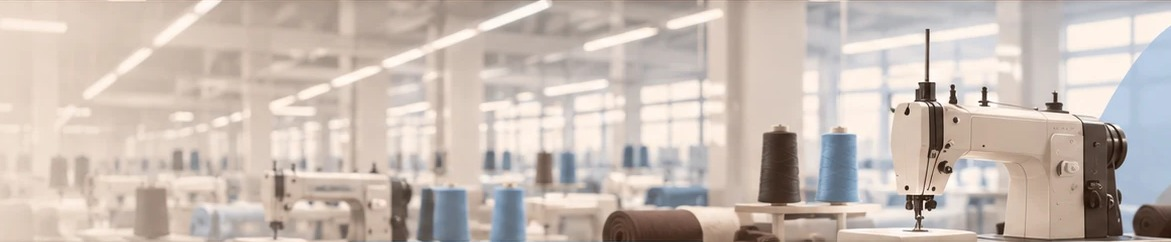
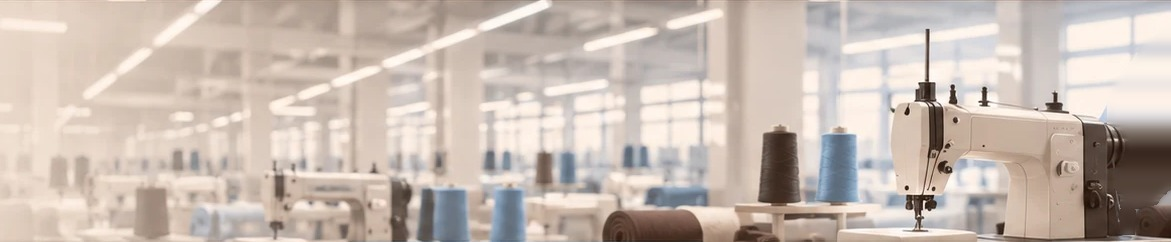
Remove the blue arc and wave from the factory look

Changed region(s): [[0.9223, 0.1157, 1.0, 0.9835]]

diff --git a/apps/web/app/factory.css b/apps/web/app/factory.css
@@ -8,7 +8,7 @@
       the language button on the right),
     - a bright, modern garment factory photo behind the greeting (public/factory-hero.jpg),
       brown cloth with two thread spools in the bottom-left corner (factory-cloth.png) and a
-      baby-blue wave along the bottom edge (factory-wave.png),
+      (the baby-blue wave of the draft was removed on request),
     - four count boxes (brown, cream, baby blue, cream) with a big faint icon each,
     - a cream, see-through "Machine map" card with seats, and a "Your selection" card.
   Colours (the three of the draft, plus a slightly darker shade of each):
@@ -226,18 +226,6 @@ body:has(.topbar)::before {
   to {
     opacity: 0;
   }
-}
-/* The baby-blue wave along the bottom edge of the screen (behind the cards). */
-.shell::after {
-  content: '';
-  position: fixed;
-  right: 0;
-  bottom: 0;
-  width: min(711px, 55vw);
-  height: 53px;
-  background: url('/factory-wave.png') right bottom / 100% 100% no-repeat;
-  pointer-events: none;
-  z-index: 0;
 }
 .shell-open::before {
   display: none;
@@ -934,8 +922,7 @@ html[lang='bn'] .map-desk {
   .map-row-letter {
     width: 20px;
   }
-  .shell::before,
-  .shell::after {
+  .shell::before {
     display: none;
   }
 }

diff --git a/apps/web/STATUS.md b/apps/web/STATUS.md
@@ -23,7 +23,7 @@ This is the "where are we?" page for the website. The root `CLAUDE.md` loads it 
 
 ## In progress
 
-- FACTORY LOOK (branch `features/web-factory-look`, 2026-11-13, checks pass, looked at in a browser on fake data at 1711 x 919, desktop, phone and Bangla; NOT committed; real backend not tried): the whole manager and owner frame was rebuilt as a copy of the new draft picture. It REPLACES the maroon / sky-blue look below. Colours: brown `#3B2418` (header, main buttons, broken machines), cream `#F2E8DA` (page, cards), baby blue `#8EC5FF` (resolved, selected). Everything is in the new file `app/factory.css` (loaded after `globals.css`; the old "REFERENCE LOOK" block was deleted from `globals.css` and its maroon colours became brown). The English font is now Lato (it matches the draft's letter widths); Bangla stays Baloo Da 2. Pictures cut out of the draft (in `public/`): `factory-hero.jpg` (bright factory photo with the sewing machine), `factory-cloth.png` (brown cloth and two thread spools, bottom-left), `factory-wave.png` (baby-blue wave, bottom edge), `factory-logo-tile.png`, `factory-icon-machine.png` and `factory-icon-logo.png` (one-colour stencils used for the seat icon and the Machine map icon). Changes you may notice: the sidebar now starts FOLDED (the hamburger opens it); the seats under the map have no legend (the draft has none; the chips say every state in words); the "Your selection" sentence says "glowing white"; count boxes show a faint icon top-right (warning, clock, check, person); the Assign button has a hard-hat icon. The cloth in the corner only sits in front of the cards on the Machine map pages and fades when the page scrolls. The login pages were NOT changed (still the maroon ribbon). The old maroon-look notes below are history.
+- FACTORY LOOK (branch `features/web-factory-look`, 2026-11-13, checks pass, looked at in a browser on fake data at 1711 x 919, desktop, phone and Bangla; NOT committed; real backend not tried): the whole manager and owner frame was rebuilt as a copy of the new draft picture. It REPLACES the maroon / sky-blue look below. Colours: brown `#3B2418` (header, main buttons, broken machines), cream `#F2E8DA` (page, cards), baby blue `#8EC5FF` (resolved, selected). Everything is in the new file `app/factory.css` (loaded after `globals.css`; the old "REFERENCE LOOK" block was deleted from `globals.css` and its maroon colours became brown). The English font is now Lato (it matches the draft's letter widths); Bangla stays Baloo Da 2. Pictures cut out of the draft (in `public/`): `factory-hero.jpg` (bright factory photo with the sewing machine), `factory-cloth.png` (brown cloth and two thread spools, bottom-left), `factory-logo-tile.png`, `factory-icon-machine.png` and `factory-icon-logo.png` (one-colour stencils used for the seat icon and the Machine map icon). Changes you may notice: the sidebar now starts FOLDED (the hamburger opens it); the seats under the map have no legend (the draft has none; the chips say every state in words); the "Your selection" sentence says "glowing white"; count boxes show a faint icon top-right (warning, clock, check, person); the Assign button has a hard-hat icon. The cloth in the corner only sits in front of the cards on the Machine map pages and fades when the page scrolls. The blue arc on the photo's right edge and the baby-blue wave at the bottom were removed on request. The login pages were NOT changed (still the maroon ribbon). The old maroon-look notes below are history.
 - Transparent sidebar (branch `features/web-transparent-sidebar`, 2026-11-13, looked at in a browser, NOT committed): the sidebar has no denim, no stitch line and no shadow, so the page cloth shows through, and its text is dark maroon. On a phone it still gets a solid page-coloured back because it slides over the page (`.sidebar` styles in `app/globals.css`).
 - Font and login polish (2026-11-13, same branch): the whole website now uses EB Garamond for English (Bangla stays Baloo Da 2). The login header is only a small frosted bar behind the Manager / Owner buttons (no logo, no long bar), with Settings floating alone at the right. Down machines on the map glow merlot burgundy, not white (sentences updated). Other pages not checked after the font change.
 - New look (branch `features/web-map-polish`, 2026-11-12, checks pass, looked at on the manager Dashboard in a browser: it matches the picture closely; other pages not checked yet): the whole website now follows the picture Mithi shared: deep maroon top bar and sidebar, sky-blue cloth page, cream cards, steel-blue boxes, maroon buttons, cream machine seats. Colours are in `app/globals.css` (top variables); the cloth pictures in `public/` were redrawn in maroon and sky blue; the logo is maroon. The tape-measure cloth in the top-right corner is cut from the picture (`public/cloth-tape.jpg`); the small pictures (cloth with pins, scissors and spool, cloth swatch, gears, leaf) are cut out of it too (`public/deco-*.png`). A final block at the end of `app/globals.css` ("REFERENCE LOOK") holds the picture-matching styles; Playfair Display is the new title font. Some typed-in colours may still look off: look at every page and tell me which.
